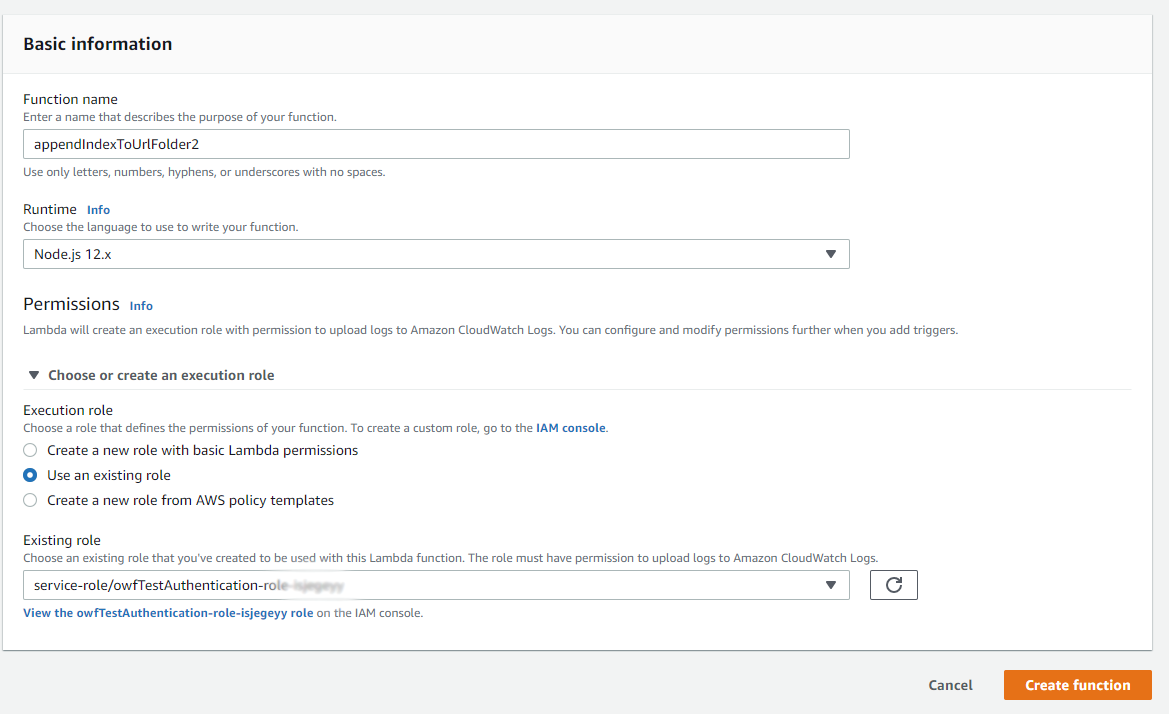
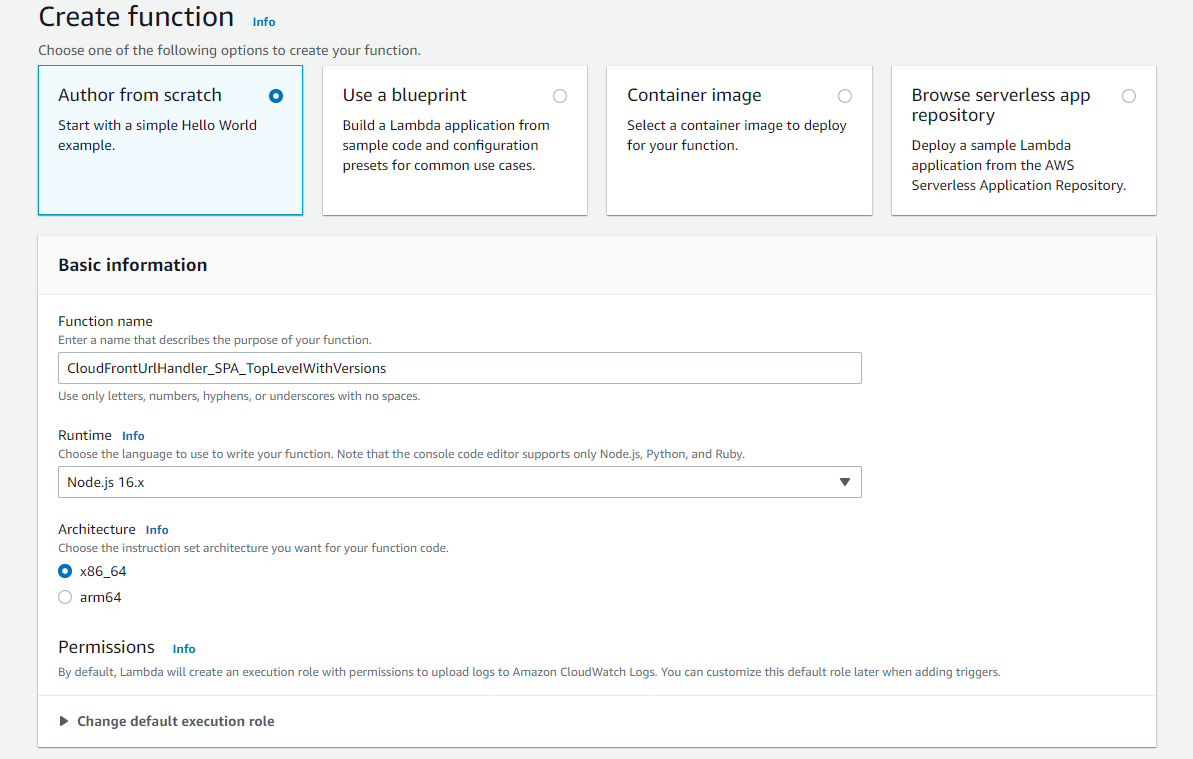
Added some small changes to lambda-to-append-index docs.

diff --git a/mkdocs-project/docs/cdn/cloudfront/lambda-to-append-index.md b/mkdocs-project/docs/cdn/cloudfront/lambda-to-append-index.md
@@ -47,7 +47,7 @@ The Lambda function currently used in production at the Open Water Foundation
 (for example on `learn.openwaterfoundation.org`) as of 2022-09-29 can be found below.
 
 Note that attempting to use a CloudFront function or the answer to the Stack
-Overflow answer from above as the solution does not provide enough capabilities
+Overflow question from above as the solution does not provide enough capabilities
 and therefore a Lambda function is required. Keep in mind that these might be enough
 to solve other issues when dealing with non Single Page Applications.
 
@@ -349,8 +349,9 @@ A Lambda function must be defined in the ***N. Virginia*** region using the
 AWS Console for Lambda.  Click the ***Create function*** button.
 Use the ***Author from Scratch*** approach and define a function as follows.
 
-* the function name is `appendIndexToUrlFolder2` to different from previous function attempt
-* Node.js.12.x is used because that is the latest available
+* The function name is `CloudFrontUrlHandler_SPA_TopLevelWithVersions` to keep it
+as verbose as possible so its functionality can be determined at a glance.
+* Node.js.16.x is used because that is the latest available.
 * An existing execution role is used (the same as used for another example).
 
 **<p style="text-align: center;">
@@ -441,36 +442,14 @@ exports.handler = (event, context, callback) => {
 };
 ```
 
-Use the ***Save*** button to save the function code.  Then use ***+ Add trigger*** to add a CloudFront  trigger.
-Use information similar to the following information to configure the trigger.
-Note that the ***Distribution*** will auto-populate using the first distribution and it may be necessary to
-copy and past the correct distribution.  Otherwise, deploying the trigger may complain that the event
-type is already used by another distribution (if this is the case).
-It is not clear if ***Include body*** should be checked in some cases, but this example was successful without selecting.
-The following selects the ***CloudFront event*** as ***Origin request***.
-
-**<p style="text-align: center;">
-![cloudfront-append-index2-2](images/cloudfront-append-index2-2.png)
-</p>**
-
-**<p style="text-align: center;">
-Lambda Function CloudFront Trigger Configuration (<a href="../images/cloudfront-append-index2-2.png">see full-size image</a>)
-</p>**
-
-Press ***Deploy*** to deploy the trigger.
-The window may not automatically close so press ***X*** if necessary.
-The trigger will then be indicated in the Lambda function editor:
-
-**<p style="text-align: center;">
-![cloudfront-append-index2-3](images/cloudfront-append-index2-3.png)
-</p>**
-
-**<p style="text-align: center;">
-Lambda Function Trigger has been Created (<a href="../images/cloudfront-append-index2-3.png">see full-size image</a>)
-</p>**
-
-Repeat ***+ Add trigger*** but for event type ***Origin Response***.
-Again, make sure that the distribution identifier is correct because the form is auto-populated with the first available distribution.
+When the function contents are ready to be published, click the **Actions** dropdown
+on the upper right part of the page, then **Deploy to Lambda@Edge**.
+Note that the Distribution will auto-populate using the first distribution and it
+may be necessary to copy and paste the correct distribution. Otherwise, deploying
+the trigger may complain that the event type is already used by another distribution
+(if this is the case). It is not clear if Include body should be checked in some
+cases, but this example was successful without selecting. The following selects the
+CloudFront event as **Origin response**.
 
 **<p style="text-align: center;">
 ![cloudfront-append-index2-4](images/cloudfront-append-index2-4.png)
@@ -480,7 +459,7 @@ Again, make sure that the distribution identifier is correct because the form is
 Lambda Function CloudFront Second Trigger Configuration (<a href="../images/cloudfront-append-index2-4.png">see full-size image</a>)
 </p>**
 
-The following confirms that two triggers have been created (note the `(2)` in the ***CloudFront*** box):
+The following confirms that the trigger has been successfully created:
 
 **<p style="text-align: center;">
 ![cloudfront-append-index2-5](images/cloudfront-append-index2-5.png)
@@ -494,3 +473,7 @@ Attempting to access a CloudFront URL, for example `https://d19yzyd6ao34tq.cloud
 links on this page that refer to its folders now works correctly,
 without attempting to download empty files when URLs ending in `/` are encountered,
 and the web browser shows the URL as requested (addition of `index.html` is done behind the scenes).
+
+Similarly, attempting to access a Single Page Application such as an Angular project
+using a versioned folder such as `https://infomapper.openwaterfoundation.org/1.4.0` correctly
+appends the necessary string to the URL so the home page is shown.

diff --git a/mkdocs-project/docs/cdn/cloudfront/private-auth-lambda.md b/mkdocs-project/docs/cdn/cloudfront/private-auth-lambda.md
@@ -118,7 +118,7 @@ The ***Set*** column has "Yes" if a value is set to other than the default.
 | -- | -- | -- | -- |
 | ========== | ===== | ======================== | **Basic Information** |
 | ***Function Name*** | Yes | `owfTestAuthentication` | Specify a function name that follows Node.js conventions because Node.js is going to be used to implement the function.  Other languages can also be used. |
-| ***Runtime*** | | `Node.js 12.x` | Use the default.  This example used another Node.js example. |
+| ***Runtime*** | | `Node.js 16e.x` | Use the default.  This example used another Node.js example. |
 | ========== | ===== | ======================== | **Permissions** |
 | ***Execution Role*** | Yes | `Create a new role with basic Lambda permissions` | Creating a new role seems reasonable for this CloudFront authentication example, although an existing role can be used.  For example, if many Lambda functions are defined, a general role can be defined to run the functions. |
 
